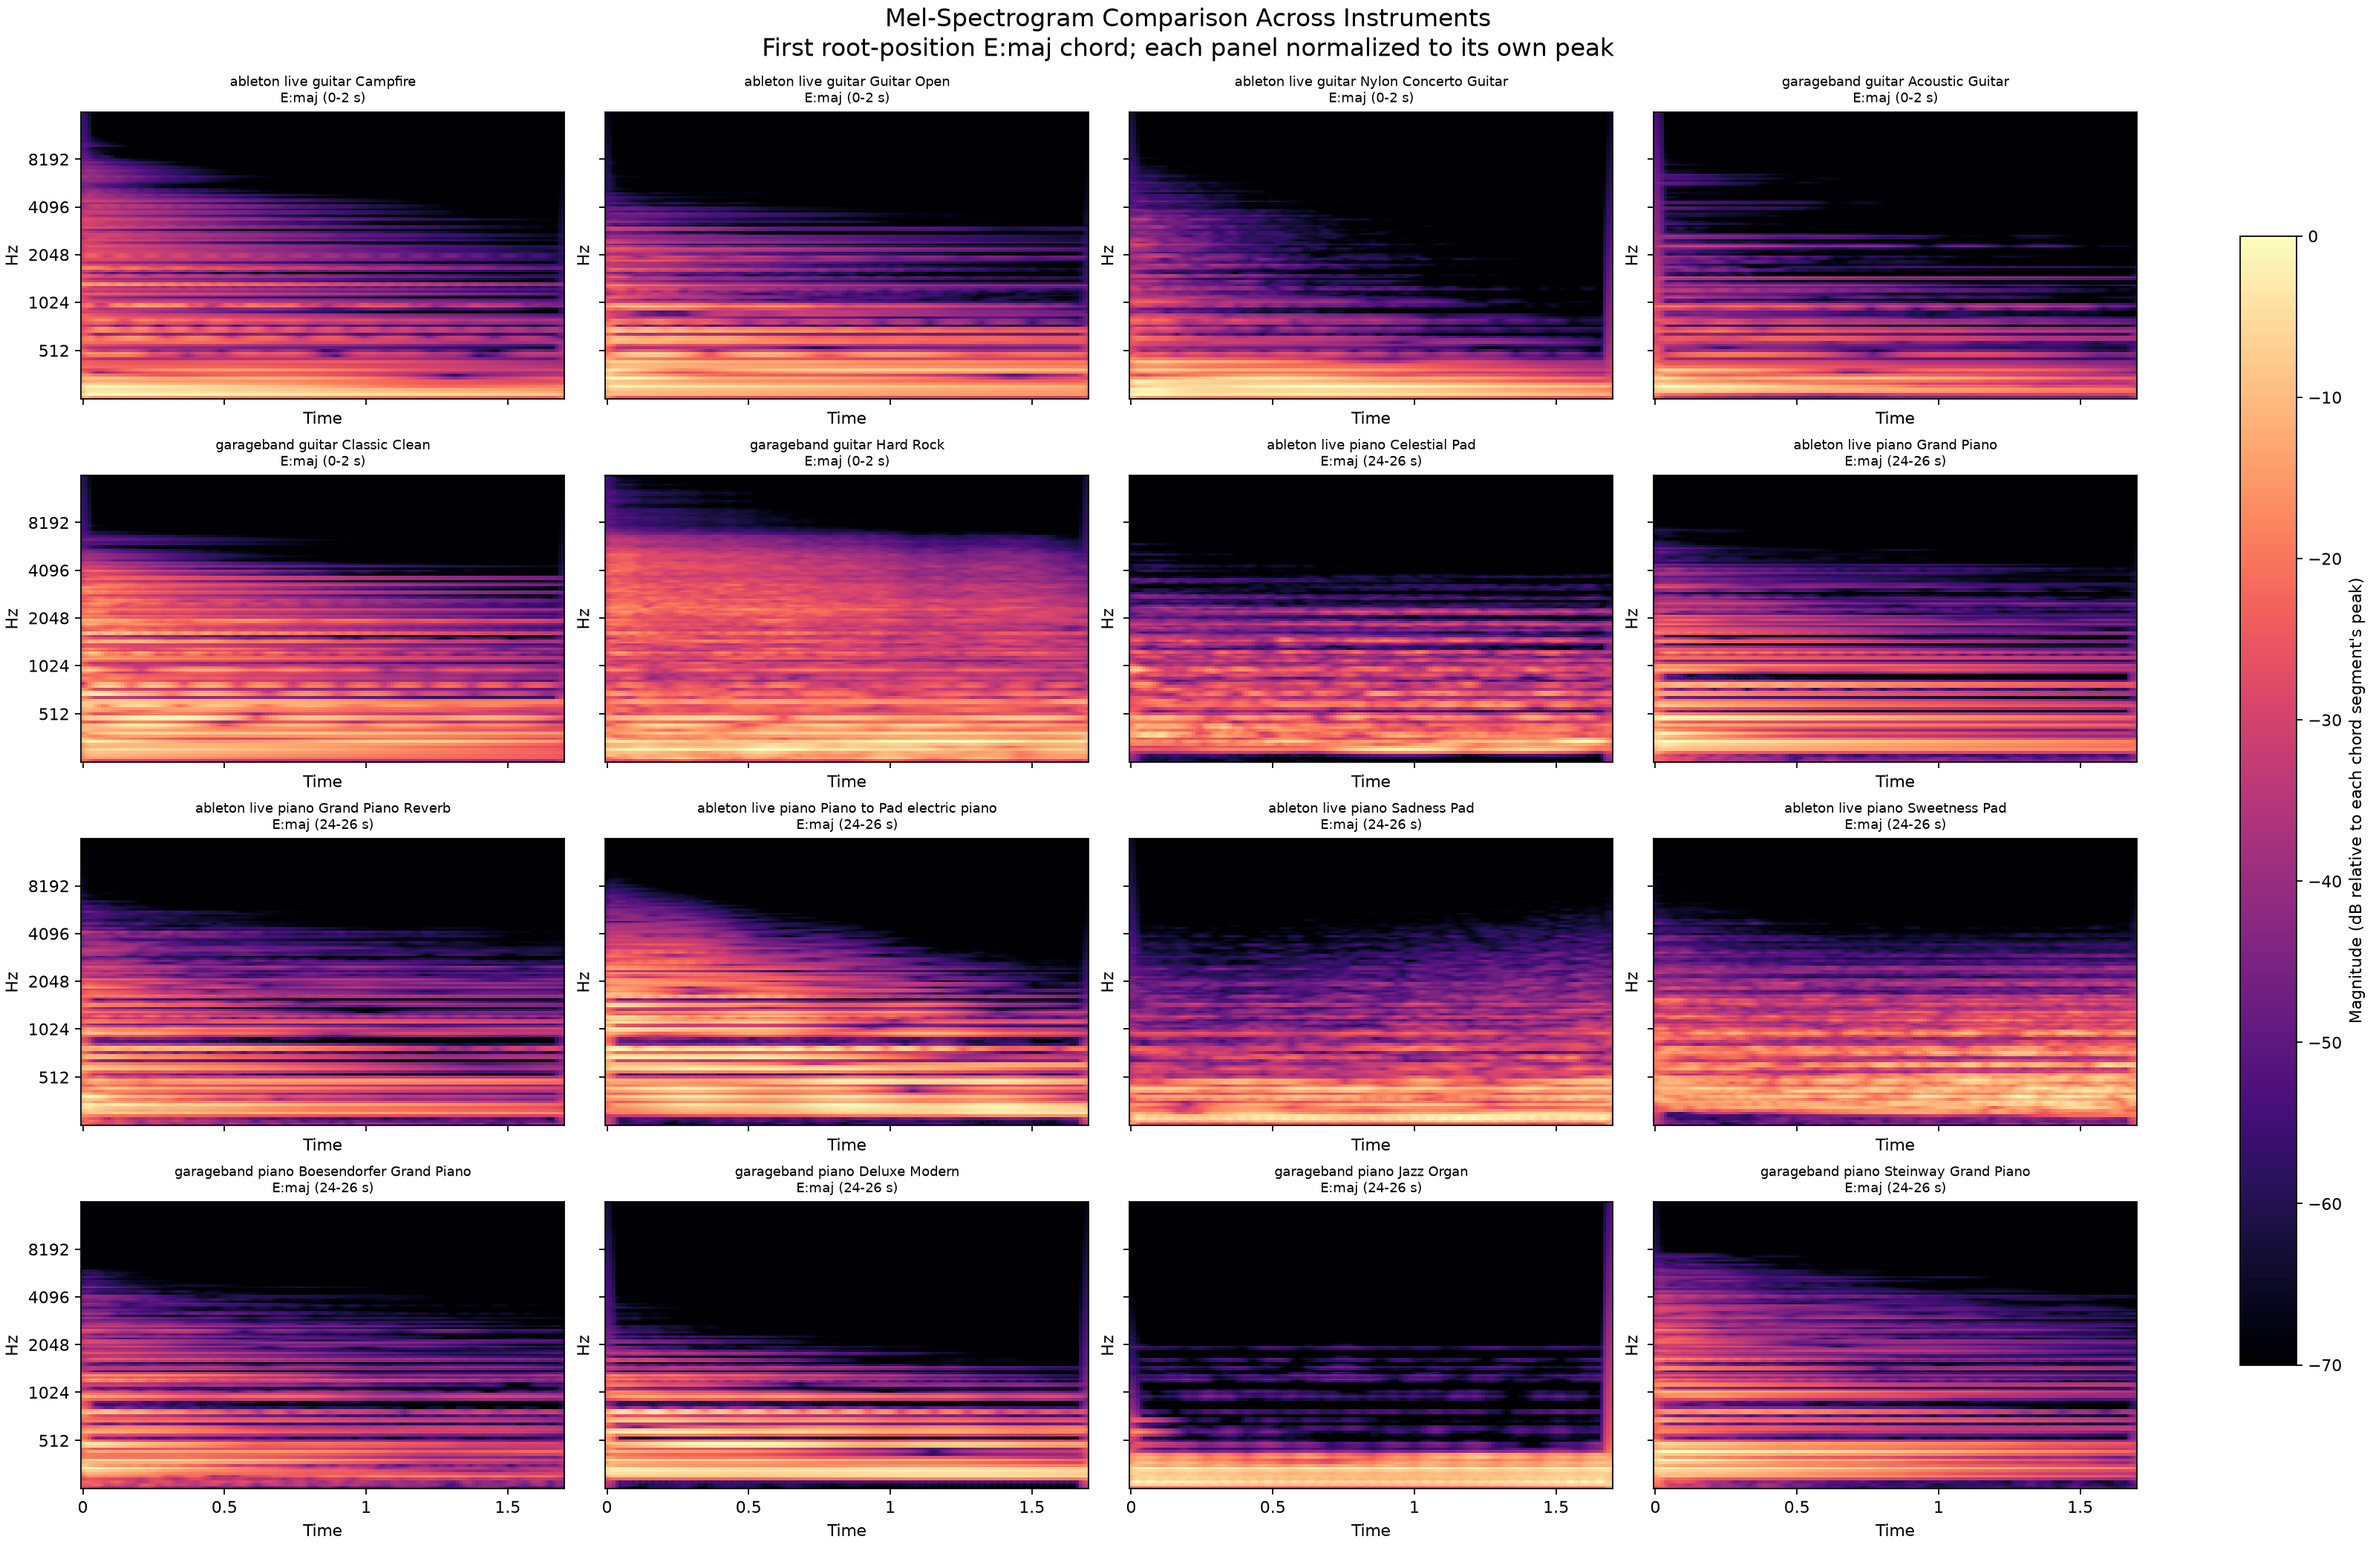
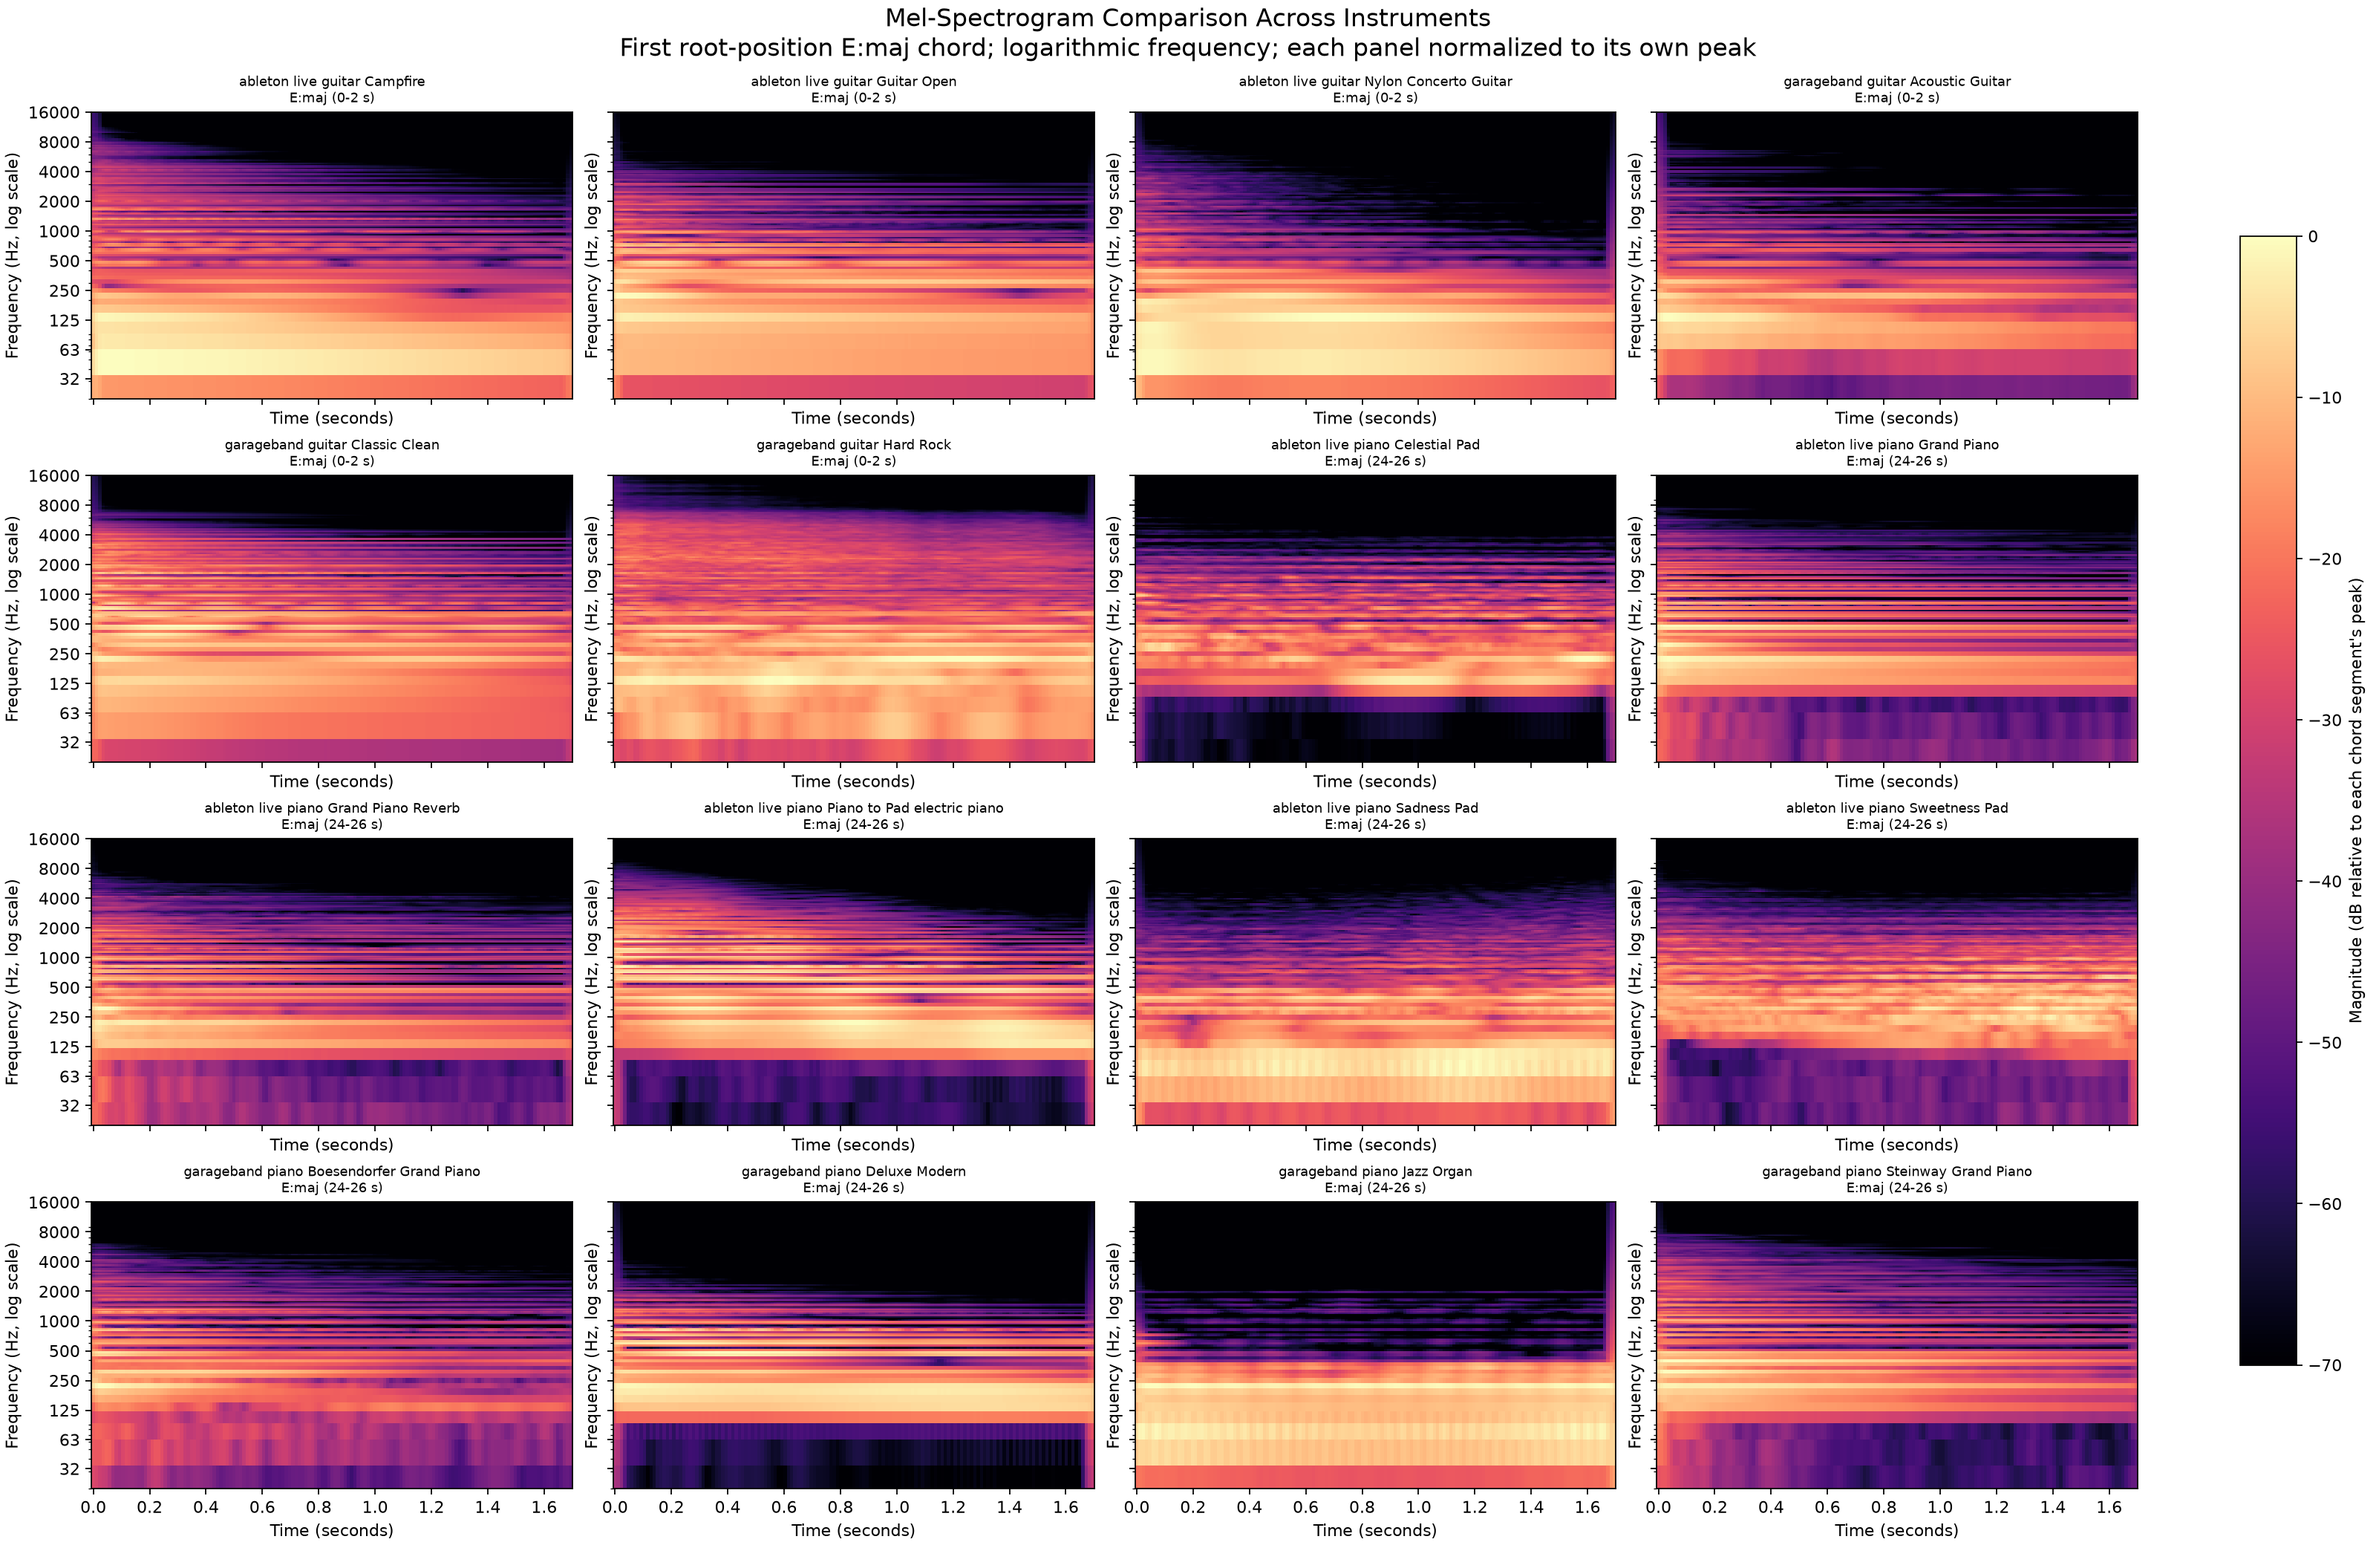
analysis

diff --git a/src/plots/plot_mel_spectrogram_instruments.py b/src/plots/plot_mel_spectrogram_instruments.py
@@ -2,7 +2,6 @@
 from pathlib import Path
 
 import librosa
-import librosa.display
 import matplotlib
 matplotlib.use("Agg")
 import matplotlib.pyplot as plt
@@ -85,19 +84,31 @@ def main():
     axes = np.asarray(axes).reshape(-1)
     image = None
     for ax, (audio_path, start, end, sample_rate, fmax, mel_db) in zip(axes, spectra):
-        image = librosa.display.specshow(
-            mel_db,
+        frame_times = librosa.frames_to_time(
+            np.arange(mel_db.shape[1]),
             sr=sample_rate,
             hop_length=HOP_LENGTH,
-            x_axis="time",
-            y_axis="mel",
+        )
+        mel_center_frequencies = librosa.mel_frequencies(
+            n_mels=N_MELS,
             fmin=FMIN,
             fmax=fmax,
+        )
+        image = ax.pcolormesh(
+            frame_times,
+            mel_center_frequencies,
+            mel_db,
+            shading="auto",
             cmap="magma",
             vmin=-70,
             vmax=0,
-            ax=ax,
         )
+        ax.set_yscale("log")
+        ax.set_ylim(FMIN, fmax)
+        ax.set_ylabel("Frequency (Hz, log scale)")
+        ax.set_xlabel("Time (seconds)")
+        ax.set_yticks([32, 63, 125, 250, 500, 1000, 2000, 4000, 8000, 16000])
+        ax.get_yaxis().set_major_formatter(matplotlib.ticker.ScalarFormatter())
         ax.set_title(
             f"{audio_path.stem.replace('_', ' ')}\nE:maj ({start:g}-{end:g} s)",
             fontsize=8,
@@ -108,7 +119,8 @@ def main():
 
     fig.suptitle(
         "Mel-Spectrogram Comparison Across Instruments\n"
-        "First root-position E:maj chord; each panel normalized to its own peak",
+        "First root-position E:maj chord; logarithmic frequency; "
+        "each panel normalized to its own peak",
         fontsize=15,
     )
     colorbar = fig.colorbar(image, ax=axes[:len(spectra)].tolist(), shrink=0.82)
